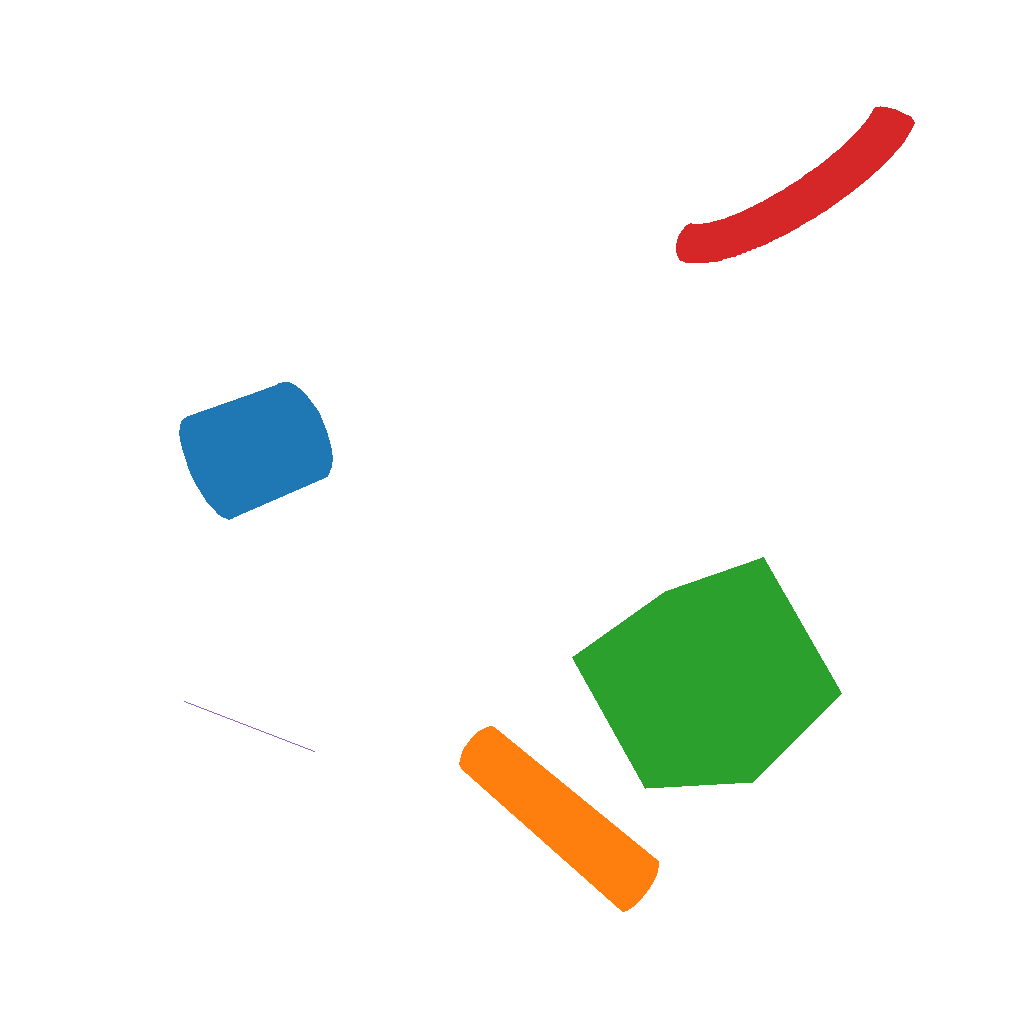
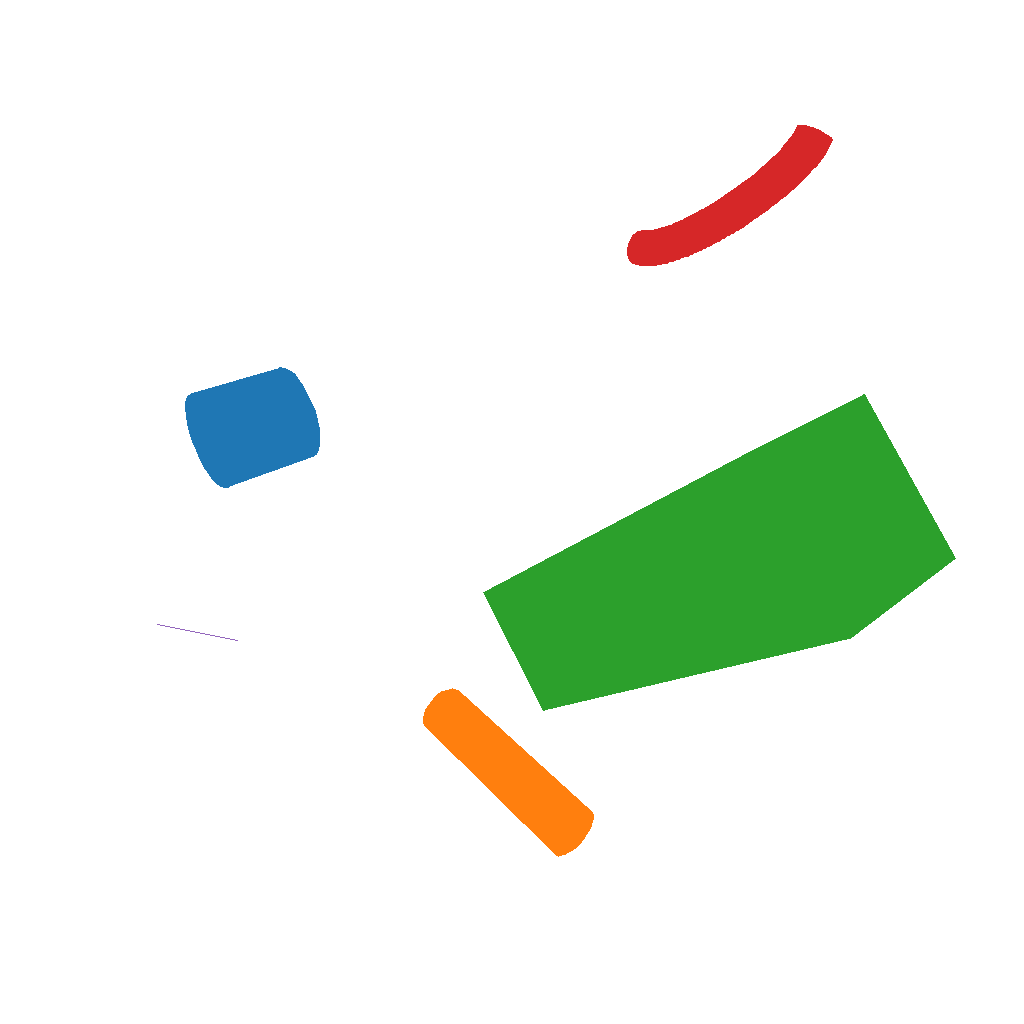
feature: add individual plots

diff --git a/render.py b/render.py
@@ -10,9 +10,80 @@ import numpy as np
 import matplotlib.pyplot as plt
 from mpl_toolkits.mplot3d.art3d import Line3DCollection, Poly3DCollection
 from algebra import apply_transform, camera_R_T, perspective_matrix, project_ndc_to_screen
+import math
+
+from meshing import generate_mesh
 
 PALETTE = ["tab:blue", "tab:orange", "tab:green",
            "tab:red",  "tab:purple", "tab:brown"]
+
+def show_individual_solids(
+    solids,
+    meshes,
+    *,
+    show_faces=True,
+    show_wire=True,
+    show_mesh=False,
+    palette=PALETTE,
+):
+    """
+    Plota cada sólido em uma janela 3‑D separada, usando somente as
+    coordenadas locais.  *meshes* é obrigatório e deve conter uma tupla
+    (name, mesh_vertices, mesh_faces) para cada sólido exceto 'line'.
+    """
+    # ---- dicionário para acesso rápido às malhas ----------------------
+    mesh_lookup = {n: (v, f) for n, v, f in meshes}
+
+    for idx, (name, verts, edges) in enumerate(solids, 1):
+        color = palette[(idx - 1) % len(palette)]
+
+        fig = plt.figure(figsize=(5, 5), dpi=100)
+        ax  = fig.add_subplot(111, projection="3d")
+        ax.set_title(name)
+
+        # ---------- faces preenchidas ----------------------------------
+        if name != "line" and show_faces:
+            mv, mf = mesh_lookup[name]          # agora é obrigatório existir
+            if len(mf):
+                tris = [mv[f] for f in mf]
+                ax.add_collection3d(
+                    Poly3DCollection(tris, facecolors=color,
+                                     edgecolors="none", alpha=0.65)
+                )
+
+        # ---------- malha (arestas dos triângulos) --------------------
+        if name != "line" and show_mesh:
+            mv, mf = mesh_lookup[name]
+            if len(mf):
+                mesh_lines = []
+                for a, b, c in mf:
+                    mesh_lines += [[mv[a], mv[b]],
+                                   [mv[b], mv[c]],
+                                   [mv[c], mv[a]]]
+                ax.add_collection3d(
+                    Line3DCollection(np.array(mesh_lines),
+                                     colors=color, lw=0.6)
+                )
+
+        # ---------- wireframe ou linha --------------------------------
+        if show_wire or name == "line":
+            segs = np.array([[verts[i], verts[j]] for i, j in edges])
+            ax.add_collection3d(
+                Line3DCollection(segs, colors=color, lw=0.8)
+            )
+
+        # ---------- enquadramento -------------------------------------
+        bb_min, bb_max = verts.min(0), verts.max(0)
+        center = (bb_min + bb_max) / 2
+        radius = max(bb_max - bb_min) / 2 or 1.0
+        ax.set_xlim(center[0]-radius, center[0]+radius)
+        ax.set_ylim(center[1]-radius, center[1]+radius)
+        ax.set_zlim(center[2]-radius, center[2]+radius)
+        ax.set_xlabel("X"); ax.set_ylabel("Y"); ax.set_zlabel("Z")
+        ax.set_box_aspect([1,1,1])
+
+        plt.tight_layout()
+        plt.show()
 
 def show_scene(
     solids, meshes, transforms,

diff --git a/example.py b/example.py
@@ -17,7 +17,7 @@ def main(show_faces=True, show_wire=True, show_mesh=True):
     solids = [
         ("cylinder",      *create_cylinder(1.0, 2.0)),
         ("pipe_straight", *create_pipe_straight(0.5, 4.0)),
-        ("box",           *create_box(2.0, 2.0, 2.0)),
+        ("box",           *create_box(6.0, 2.0, 2.0)),
     ]
     solids.append(("pipe_curved",
                    *create_pipe_curved(0.5, (0,0,0), (4,4,0), (4,0,0), (0,4,0))))
@@ -60,6 +60,13 @@ def main(show_faces=True, show_wire=True, show_mesh=True):
 
 
     # ---------- 5. Visualizações --------------------------------------
+    render.show_individual_solids(
+        solids, meshes,
+        show_faces=True,
+        show_wire=True,
+        show_mesh=False   # ative se quiser ver a malha
+    )
+    
     render.show_scene(solids, meshes, transforms,
                       show_faces=show_faces, show_wire=show_wire, show_mesh=show_mesh)
 
